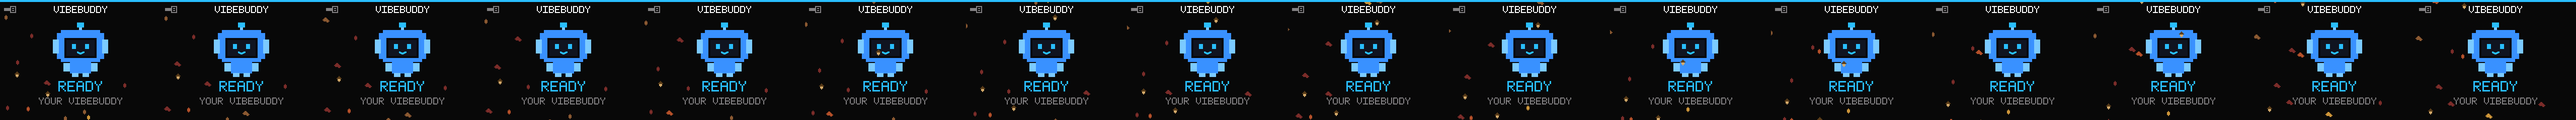
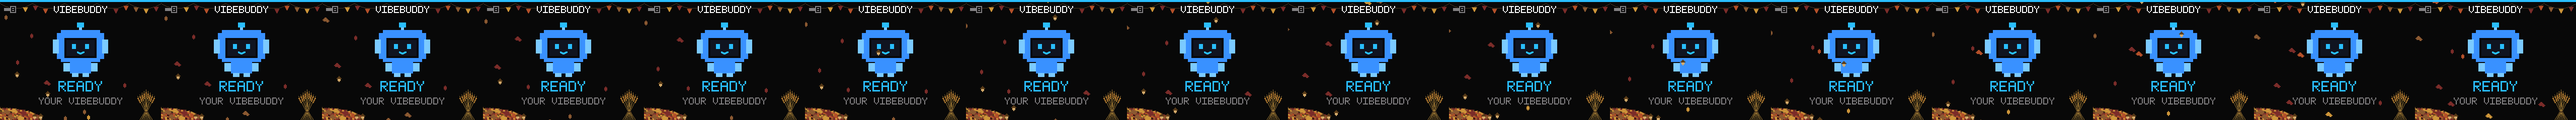
Thanksgiving decoration: bunting, a leaf pile and a sheaf of wheat
With only falling leaves and acorns, Thanksgiving looked thin beside
Christmas. It now has the same build:

- Bunting hangs in swags across the top on a twine, pennants in the
  leaves' four colours.
- A pile of leaves with two acorns sits in the bottom left corner.
- A sheaf of wheat, tied with a band, stands in the bottom right. It is
  golden brown so it shows on the needs input yellow.

The corner parts follow the pine's rule: drawn a pixel at a time on the
corner's ground only, so text and cards sit on top with a pixel of
ground around them. The leaves and acorns fall behind all of it.

diff --git a/firmware-rs/core/src/decoration.rs b/firmware-rs/core/src/decoration.rs
@@ -1,15 +1,16 @@
 //! Decorations (ADR-0022): a seasonal layer drawn over whichever box screens the box uses, after the screen and
 //! before the dimming, the menu and the tap outline. Only things that don't depend on the layout, so one drawing
-//! works on every set of screens. Each one is named for its holiday: Thanksgiving is falling leaves with an acorn
-//! here and there, and Christmas is strings of lights hanging in swags across the top, pine boughs with baubles in
-//! the bottom left corner, a small tree in the bottom right, and snow falling.
+//! works on every set of screens. Each one is named for its holiday: Thanksgiving is bunting across the top, a pile
+//! of leaves in the bottom left corner, a sheaf of wheat in the bottom right, and falling leaves and acorns.
+//! Christmas is strings of lights hanging in swags across the top, pine boughs with baubles in the bottom left
+//! corner, a small tree in the bottom right, and snow falling.
 //!
 //! Every flake, leaf and bulb is a function of time alone, so a frame drawn at any moment is right and the
 //! screens' own animation pace doesn't matter. Nothing is drawn in the top rows, where both sets show the state
 //! colour, and nothing uses a state colour. A flake, leaf, acorn or bulb that would touch text, an edge or an icon
-//! isn't drawn in that frame, so it seems to pass behind it and the text stays whole, on any layout. The pine is
-//! drawn a pixel at a time on its corner's ground only, so text and cards sit on top of it with a pixel of ground
-//! around them.
+//! isn't drawn in that frame, so it seems to pass behind it and the text stays whole, on any layout. The parts in
+//! the corners are drawn a pixel at a time on their corner's ground only, so text and cards sit on top of them with
+//! a pixel of ground around them.
 
 use crate::canvas::{Canvas, HEIGHT, WIDTH, half_bright};
 
@@ -87,6 +88,28 @@ const ACORN_CAP: [u8; 3] = [0b00100, 0b01110, 0b11111];
 const ACORN_NUT: [u8; 3] = [0b01110, 0b01110, 0b00100];
 const ACORN_CAP_COLOR: u16 = 0x59e3;
 const ACORN_NUT_COLOR: u16 = 0xd54d;
+/// Thanksgiving's parts that stay put. Bunting hangs in swags across the top like the Christmas lights: a pennant
+/// every `PENNANT_SPACING` pixels on a twine, `PENNANT_WIDTH` wide and `PENNANT_HEIGHT` long, in the leaves' colours.
+const TWINE: u16 = 0x8b68;
+const PENNANT_SPACING: i32 = 20;
+const PENNANT_WIDTH: i32 = 11;
+const PENNANT_HEIGHT: i32 = 10;
+const MAX_PENNANTS: usize = 16;
+/// A pile of fallen leaves in the bottom left corner, `PILE_WIDTH` wide and up to `PILE_HEIGHT` high, with a few
+/// whole leaves on it and two acorns at its foot.
+const PILE_WIDTH: i32 = 84;
+const PILE_HEIGHT: i32 = 26;
+const PILE_LEAVES: [(i32, i32); 6] = [(6, 20), (22, 22), (40, 18), (56, 12), (14, 10), (34, 8)];
+const PILE_ACORNS: [i32; 2] = [64, 76];
+/// A sheaf of wheat in the bottom right corner: `STALKS` stalks tied together, fanning out above the band into ears
+/// of grain and splaying a little below it. Golden browns and ochre, dark enough to show on the needs input yellow.
+const STALKS: i32 = 9;
+const SHEAF_INSET: i32 = 30;
+const SHEAF_HEIGHT: i32 = 56;
+const SHEAF_BAND: i32 = 16;
+const EAR: i32 = 12;
+const STALK: u16 = 0x9386;
+const GRAIN: u16 = 0xab45;
 
 /// Bulbs: mostly warm white and gold, every fourth pink or violet. No red, green, yellow, orange or blue, which
 /// the screens use for state.
@@ -191,23 +214,30 @@ fn bulbs() -> impl Iterator<Item = (i32, i32)> {
 }
 
 /// The light string's wire, a pixel wide, left out where it would touch anything but plain ground.
-fn wire(canvas: &mut Canvas) {
+fn wire(canvas: &mut Canvas, color: u16) {
     for x in 0..WIDTH {
         let y = swag_y(x);
         if plain(canvas, x, y, 1, 1) {
-            dot(canvas, x, y, 1, 1, NEEDLES[2]);
+            dot(canvas, x, y, 1, 1, color);
         }
     }
 }
 
-fn pine(color: u16) -> bool {
-    color == TWIG || color == TRUNK || NEEDLES.contains(&color)
+/// The colours of the parts that stay put in the corners: the pine and the tree, the leaf pile and the wheat.
+fn ours(color: u16) -> bool {
+    color == TWIG
+        || color == TRUNK
+        || color == STALK
+        || color == GRAIN
+        || color == ACORN_NUT_COLOR
+        || NEEDLES.contains(&color)
+        || LEAF_COLORS.iter().any(|leaf| *leaf == color || half_bright(*leaf) == color)
 }
 
-/// One pixel of pine, drawn only where it and the pixels around it are the corner's `ground` or pine already. So the
-/// pine grows behind text, cards and icons, and keeps a pixel of ground around them: text on the tree stays whole
-/// and readable, and the pine never fills the inside of a card or a key cap.
-fn needle_dot(canvas: &mut Canvas, ground: u16, x: i32, y: i32, color: u16) {
+/// One pixel of a part in a corner, drawn only where it and the pixels around it are the corner's `ground` or such a
+/// part already. So the part grows behind text, cards and icons, and keeps a pixel of ground around them: text on
+/// the tree stays whole and readable, and a part never fills the inside of a card or a key cap.
+fn part_dot(canvas: &mut Canvas, ground: u16, x: i32, y: i32, color: u16) {
     if !(0..WIDTH).contains(&x) || !(TOP..HEIGHT).contains(&y) {
         return;
     }
@@ -216,12 +246,12 @@ fn needle_dot(canvas: &mut Canvas, ground: u16, x: i32, y: i32, color: u16) {
     }
 }
 
-/// Whether the box from (x, y), `width` by `height`, and a pixel around it, is all `ground` or pine.
+/// Whether the box from (x, y), `width` by `height`, and a pixel around it, is all `ground` or a corner's part.
 fn on_ground(canvas: &Canvas, ground: u16, x: i32, y: i32, width: i32, height: i32) -> bool {
     for row in (y - 1).max(TOP)..(y + height + 1).min(HEIGHT) {
         for column in (x - 1).max(0)..(x + width + 1).min(WIDTH) {
             let color = canvas.pixel((row * WIDTH + column) as usize);
-            if color != ground && !pine(color) {
+            if color != ground && !ours(color) {
                 return false;
             }
         }
@@ -229,11 +259,11 @@ fn on_ground(canvas: &Canvas, ground: u16, x: i32, y: i32, width: i32, height: i
     true
 }
 
-/// A straight line of pine from (x0, y0) to (x1, y1).
-fn needle_line(canvas: &mut Canvas, ground: u16, (x0, y0): (i32, i32), (x1, y1): (i32, i32), color: u16) {
+/// A straight line of a corner's part from (x0, y0) to (x1, y1).
+fn part_line(canvas: &mut Canvas, ground: u16, (x0, y0): (i32, i32), (x1, y1): (i32, i32), color: u16) {
     let steps = (x1 - x0).abs().max((y1 - y0).abs()).max(1);
     for step in 0..=steps {
-        needle_dot(canvas, ground, x0 + (x1 - x0) * step / steps, y0 + (y1 - y0) * step / steps, color);
+        part_dot(canvas, ground, x0 + (x1 - x0) * step / steps, y0 + (y1 - y0) * step / steps, color);
     }
 }
 
@@ -256,7 +286,7 @@ fn corner(canvas: &mut Canvas, ground: u16) {
         let length = root(dx * dx + dy * dy);
         // Along the bough and across it, in 1/256ths of a pixel.
         let (ux, uy) = (dx * 256 / length, dy * 256 / length);
-        needle_line(canvas, ground, place(origin.0, origin.1), place(end_x, end_y), TWIG);
+        part_line(canvas, ground, place(origin.0, origin.1), place(end_x, end_y), TWIG);
         for along in 0..length {
             let (x, y) = (origin.0 + dx * along / length, origin.1 + dy * along / length);
             let reach = 3 + (NEEDLE_LENGTH - 3) * (length - along) / length;
@@ -270,7 +300,7 @@ fn corner(canvas: &mut Canvas, ground: u16) {
                 let tip_y = y + (uy * 6 / 10 + side * ux) * reach / 256;
                 // Lighter on the upper side, where the light falls.
                 let shade = if side * ux > 0 { 2 + (bits >> 3) as usize % 2 } else { (bits >> 3) as usize % 2 };
-                needle_line(canvas, ground, place(x, y), place(tip_x, tip_y), NEEDLES[shade]);
+                part_line(canvas, ground, place(x, y), place(tip_x, tip_y), NEEDLES[shade]);
             }
         }
     }
@@ -324,11 +354,11 @@ fn tree(canvas: &mut Canvas, ground: u16, t_ms: u64) {
                 0
             };
             let shade = (light + (bits >> 3) as usize % 2).min(NEEDLES.len() - 1);
-            needle_dot(canvas, ground, centre + offset, top + row, NEEDLES[shade]);
+            part_dot(canvas, ground, centre + offset, top + row, NEEDLES[shade]);
         }
     }
     for row in 0..TREE_TRUNK {
-        needle_line(canvas, ground, (centre - 2, top + TREE_FOLIAGE + row), (centre + 2, top + TREE_FOLIAGE + row), TRUNK);
+        part_line(canvas, ground, (centre - 2, top + TREE_FOLIAGE + row), (centre + 2, top + TREE_FOLIAGE + row), TRUNK);
     }
     // The star, on the top: a plus with a fuller middle and a gold heart. It and the bulbs are left out where they
     // would touch anything but the ground and the tree.
@@ -349,6 +379,102 @@ fn tree(canvas: &mut Canvas, ground: u16, t_ms: u64) {
     }
 }
 
+/// The pile of leaves in the bottom left corner, on its `ground`: a mound of leaf-sized patches of the leaves'
+/// colours, lighter towards the top, with whole leaves lying on it and acorns at its foot.
+fn pile(canvas: &mut Canvas, ground: u16) {
+    for x in 0..PILE_WIDTH {
+        // A quarter ellipse from the corner, ragged along the top.
+        let across = PILE_WIDTH * PILE_WIDTH - x * x;
+        let height = PILE_HEIGHT * root(across) / PILE_WIDTH - (mix(x as u32, 0x9113) % 3) as i32;
+        for up in 0..height.max(0) {
+            let patch = mix(((x / 4) * 64 + (up + x / 3) / 3) as u32, 0x1eaf);
+            let color = LEAF_COLORS[(patch >> 4) as usize % LEAF_COLORS.len()];
+            // Shade the inside of the pile, so the patches read as leaves on leaves.
+            let color = if up < height - 4 && patch & 3 == 0 { half_bright(color) } else { color };
+            part_dot(canvas, ground, x, HEIGHT - 1 - up, color);
+        }
+    }
+    for (index, (x, y)) in PILE_LEAVES.into_iter().enumerate() {
+        let color = LEAF_COLORS[(index + 1) % LEAF_COLORS.len()];
+        for (row, line) in LEAF_FLAT.iter().enumerate() {
+            for column in 0..LEAF_WIDTH {
+                if line & (1 << (LEAF_WIDTH - 1 - column)) != 0 {
+                    for (dx, dy) in [(0, 0), (1, 0), (0, 1), (1, 1)] {
+                        part_dot(canvas, ground, x + column * 2 + dx, HEIGHT - 1 - y + row as i32 * 2 + dy, color);
+                    }
+                }
+            }
+        }
+    }
+    let acorn_height = (ACORN_CAP.len() + ACORN_NUT.len()) as i32 * LEAF_SCALE;
+    for x in PILE_ACORNS {
+        let top = HEIGHT - 1 - acorn_height;
+        if on_ground(canvas, ground, x, top, ACORN_WIDTH * LEAF_SCALE, acorn_height) {
+            shape(canvas, x, top, ACORN_WIDTH, &ACORN_CAP, ACORN_CAP_COLOR);
+            shape(canvas, x, top + ACORN_CAP.len() as i32 * LEAF_SCALE, ACORN_WIDTH, &ACORN_NUT, ACORN_NUT_COLOR);
+        }
+    }
+}
+
+/// The sheaf of wheat in the bottom right corner, on its `ground`.
+fn sheaf(canvas: &mut Canvas, ground: u16) {
+    let centre = WIDTH - SHEAF_INSET;
+    let band = HEIGHT - 1 - SHEAF_BAND;
+    let top = HEIGHT - 1 - SHEAF_HEIGHT;
+    for stalk in -(STALKS / 2)..=STALKS / 2 {
+        let foot = (centre + stalk * 3, HEIGHT - 1);
+        let waist = (centre + stalk / 2, band);
+        let head = (centre + stalk * 4, top + stalk.abs() * 3);
+        part_line(canvas, ground, foot, waist, STALK);
+        part_line(canvas, ground, waist, head, STALK);
+        // The ear: grains in pairs either side of the top of the stalk, and a few awns past its tip.
+        let (dx, dy) = (head.0 - waist.0, head.1 - waist.1);
+        let length = root(dx * dx + dy * dy).max(1);
+        for along in (0..EAR).step_by(2) {
+            let (x, y) = (head.0 - dx * along / length, head.1 - dy * along / length);
+            let color = if along % 4 == 0 { GRAIN } else { LEAF_COLORS[2] };
+            part_line(canvas, ground, (x - 1, y + 1), (x + 1, y + 1), color);
+            part_dot(canvas, ground, x, y, color);
+        }
+        part_line(canvas, ground, head, (head.0 + dx * 4 / length, head.1 + dy * 4 / length), STALK);
+    }
+    // The band that ties them.
+    part_line(canvas, ground, (centre - 4, band), (centre + 4, band), TWIG);
+    part_line(canvas, ground, (centre - 4, band + 1), (centre + 4, band + 1), TWIG);
+}
+
+/// The middles of the pennants along the twine.
+fn pennants() -> impl Iterator<Item = (i32, i32)> {
+    (0..)
+        .map(|step| PENNANT_SPACING / 2 + step * PENNANT_SPACING)
+        .take_while(|x| *x < WIDTH - PENNANT_WIDTH / 2)
+        .map(|x| (x, swag_y(x) + 1))
+}
+
+/// Thanksgiving's parts that stay put: the bunting across the top, the leaf pile and the sheaf of wheat.
+fn harvest(canvas: &mut Canvas) {
+    let mut room = [false; MAX_PENNANTS];
+    for (index, (x, y)) in pennants().enumerate().take(MAX_PENNANTS) {
+        room[index] = plain(canvas, x - PENNANT_WIDTH / 2, y, PENNANT_WIDTH, PENNANT_HEIGHT);
+    }
+    let left_ground = canvas.pixel(((HEIGHT - 2) * WIDTH + 1) as usize);
+    let right_ground = canvas.pixel(((HEIGHT - 2) * WIDTH + WIDTH - 2) as usize);
+    pile(canvas, left_ground);
+    sheaf(canvas, right_ground);
+    wire(canvas, TWINE);
+    for (index, (x, y)) in pennants().enumerate().take(MAX_PENNANTS) {
+        if !room[index] {
+            continue;
+        }
+        let color = LEAF_COLORS[index % LEAF_COLORS.len()];
+        // A triangle pointing down, with its top row a shade darker where it folds over the twine.
+        for row in 0..PENNANT_HEIGHT {
+            let half = (PENNANT_WIDTH / 2) * (PENNANT_HEIGHT - row) / PENNANT_HEIGHT;
+            dot(canvas, x - half, y + row, 2 * half + 1, 1, if row == 0 { half_bright(color) } else { color });
+        }
+    }
+}
+
 fn lights(canvas: &mut Canvas, t_ms: u64) {
     // Which bulbs have room, judged on the screen before anything goes on.
     let mut room = [false; MAX_BULBS];
@@ -360,7 +486,7 @@ fn lights(canvas: &mut Canvas, t_ms: u64) {
     let right_ground = canvas.pixel(((HEIGHT - 2) * WIDTH + WIDTH - 2) as usize);
     corner(canvas, left_ground);
     tree(canvas, right_ground, t_ms);
-    wire(canvas);
+    wire(canvas, NEEDLES[2]);
     for (index, (x, y)) in bulbs().enumerate().take(MAX_BULBS) {
         if !room[index] {
             continue;
@@ -449,7 +575,11 @@ pub fn draw(canvas: &mut Canvas, decoration: Decoration, t_ms: u32) {
     let t_ms = t_ms as u64;
     match decoration {
         Decoration::Off => {}
-        Decoration::Thanksgiving => leaves(canvas, t_ms),
+        // The parts that stay put first, so the leaves fall behind them.
+        Decoration::Thanksgiving => {
+            harvest(canvas);
+            leaves(canvas, t_ms);
+        }
         // The lights and boughs first, so the snow falls behind them: a flake only lands on plain ground.
         Decoration::Christmas => {
             lights(canvas, t_ms);
@@ -504,7 +634,7 @@ mod tests {
     }
 
     #[test]
-    fn christmas_has_lights_boughs_and_snow_and_thanksgiving_has_acorns_among_the_leaves() {
+    fn christmas_has_lights_boughs_and_snow_and_thanksgiving_has_bunting_wheat_and_acorns() {
         // Whether `color` is anywhere at least `inside` pixels in from the edges, under the state colour's rows.
         let has = |frame: &[u8], color: u16, inside: i32| {
             (TOP + inside..HEIGHT - inside).any(|y| {
@@ -519,7 +649,9 @@ mod tests {
         assert!(has(&christmas, BULB_COLORS[0], 0) || has(&christmas, BULB_COLORS[1], 0), "and the lights");
         assert!(has(&christmas, SNOW, 0) || has(&christmas, SNOW_SHADE, 0), "and the snow");
         let thanksgiving = drawn(Decoration::Thanksgiving, 61_000);
-        assert!(has(&thanksgiving, ACORN_CAP_COLOR, 0), "an acorn falls among the leaves");
+        assert!(has(&thanksgiving, ACORN_CAP_COLOR, 0), "there are acorns");
+        assert!(has(&thanksgiving, TWINE, 0), "and the bunting's twine");
+        assert!(has(&thanksgiving, STALK, 0), "and the wheat");
     }
 
     #[test]

diff --git a/docs/adr/0022-decorations-are-one-overlay-for-every-set-of-box-screens.md b/docs/adr/0022-decorations-are-one-overlay-for-every-set-of-box-screens.md
@@ -8,9 +8,9 @@ On 2026-11-04 Michael asked for holiday themes the App writes to the box: backgr
 
 So a decoration is a third thing beside the Character and the box screens, and it uses only what doesn't depend on the layout:
 
-- **Kinds.** Things that fall or drift over the whole screen (snow, leaves) things that hang along its top edge (strings of lights), and things that grow from its bottom corners (pine boughs, a small tree). Nothing that sits at a place a layout gives meaning to: no hats on the buddy, no new backgrounds, no recoloured cards.
+- **Kinds.** Things that fall or drift over the whole screen (snow, leaves) things that hang along its top edge (strings of lights, bunting), and things that sit in its bottom corners (pine boughs, a small tree, a pile of leaves, a sheaf of wheat). Nothing that sits at a place a layout gives meaning to: no hats on the buddy, no new backgrounds, no recoloured cards.
 - **One drawing for every set of box screens.** The box draws the decoration over the finished 320×240 frame, whichever set drew it, before the night dimming, the menu and the tap outline (`decoration.rs`). Both sets render a full frame and flush it whole (`canvas.rs`, `lcd.rs`), so there is one place to add it. A new set of box screens gets every decoration for free.
-- **It never hides what the screen means.** It leaves the top 4 rows alone, where both sets draw the state colour (4 rows on the robot screens, 3 on korekore). It doesn't use the state colours (ready blue, working orange, needs input yellow, done green, failed red) as a main colour, since korekore fills the whole screen with some of them: Christmas lights are warm white and gold with every fourth bulb pink or violet, not red and green bulbs, and the pine is dark pine greens far from the done green. A flake, leaf, acorn or bulb that would touch anything but plain ground (text, an edge, an icon) isn't drawn in that frame, so it seems to pass behind it and text stays whole. The pine is drawn a pixel at a time, only on its corner's ground colour and a pixel clear of anything else, so text, cards and key caps sit on top of it with a pixel of ground around them, and it never fills the inside of a card. Both look at the pixels, not at either layout. While the box needs input, it stops moving, so the only motion on the screen is the buddy asking.
+- **It never hides what the screen means.** It leaves the top 4 rows alone, where both sets draw the state colour (4 rows on the robot screens, 3 on korekore). It doesn't use the state colours (ready blue, working orange, needs input yellow, done green, failed red) as a main colour, since korekore fills the whole screen with some of them: Christmas lights are warm white and gold with every fourth bulb pink or violet, not red and green bulbs, and the pine is dark pine greens far from the done green. The wheat is golden brown and ochre, dark enough to show on the needs input yellow. A flake, leaf, acorn or bulb that would touch anything but plain ground (text, an edge, an icon) isn't drawn in that frame, so it seems to pass behind it and text stays whole. The parts in the corners are drawn a pixel at a time, only on their corner's ground colour and a pixel clear of anything else, so text, cards and key caps sit on top of them with a pixel of ground around them, and they never fill the inside of a card. Both look at the pixels, not at either layout. While the box needs input, it stops moving, so the only motion on the screen is the buddy asking.
 - **In the firmware, picked by a command.** Like the box screens, each decoration is compiled in and switched over the link, and the box keeps the choice across restarts. Off is the default. Turning one on doesn't write the Character pack or flash anything.
 - **Named for a holiday, but not tied to a Character or a date.** Pip with no Christmas decoration and the robot with one are both fine. The App doesn't turn a decoration on by the calendar; the user picks it, as with a Character.
 
@@ -26,5 +26,5 @@ So a decoration is a third thing beside the Character and the box screens, and i
 - The firmware gets a decoration step after each set's frame, a `device.decoration` command and a `DECORATION` line, the way `device.screens` works (docs/protocol.md). The settings record has no free word, so the decoration takes the second byte of the screens word; firmware from before it reads a decorated korekore record as the robot's, which only matters after a rollback. The robot and korekore pixels stay the same with the decoration off. `cargo run -p vibebuddy-firmware-core --example decoration_preview -- <dir>` draws each decoration on both sets.
 - A moving decoration redraws the frame every 150 ms between the screens' own frames, without speeding up the buddy's animation. The rate is checked on the box. It holds still while the menu is up, while the box needs input, and while the screen is dimmed for the night.
 - The Mac app and the Linux app both get a decoration strip on the Character page, right under the volume so a long list of Characters doesn't push it out of sight: one preview, playing frames the firmware itself drew (`tools/decoration-previews.sh` into `decorations/`, so the apps never redraw a decoration of their own), and a button for each decoration. It is off while the box is away or runs firmware that doesn't report a decoration, with zh-Hans strings on both sides. It was first on the Device page, beside the box screens; on 2026-11-05 it moved, since people look for a holiday look where they pick the Character.
-- The first decorations are Thanksgiving (falling autumn leaves with an acorn here and there, for 2026-11-26) and Christmas (strings of lights hanging in swags across the top, pine boughs with baubles in the bottom left corner, a small tree with a star in the bottom right, and falling snow). Both ship in one firmware release and one App release about a week before Thanksgiving, and that App release also carries Tom and Pip.
-- On 2026-11-06, before any of it shipped, the three decorations Leaves, Snow and Lights became these two, one for each holiday: people pick a holiday, not an effect, and lights alone were for December only. The Christmas one first had a pine garland with lights round the edge of the screen. Along the top it sat right against the state colour and read as part of it, and down the sides it broke wherever a screen's content came near the edge. So the lights now hang in swags under the state colour, and the pine is in the bottom corners, where the screens have the most room. The tree is drawn on every screen, with text on top of it, rather than only where it has room: a decoration that comes and goes from one screen to the next looked less like one design. Everything is drawn before the snow, so a flake falls behind it. Thanksgiving got acorns rather than pumpkins: acorns fall, and a pumpkin's orange is too near the working orange. Snow on its own for the rest of the winter is gone for now. Holidays differ by country: Thanksgiving means little outside the US and Canada, so other holidays, such as Lunar New Year, come as decorations of their own. The settings record keeps codes 1 and 2 for the two; 3, which only test boxes stored, reads as off.
+- The first decorations are Thanksgiving (bunting in the leaves' colours across the top, a pile of leaves with two acorns in the bottom left corner, a sheaf of wheat in the bottom right, and falling leaves and acorns, for 2026-11-26) and Christmas (strings of lights hanging in swags across the top, pine boughs with baubles in the bottom left corner, a small tree with a star in the bottom right, and falling snow). Both ship in one firmware release and one App release about a week before Thanksgiving, and that App release also carries Tom and Pip.
+- On 2026-11-06, before any of it shipped, the three decorations Leaves, Snow and Lights became these two, one for each holiday: people pick a holiday, not an effect, and lights alone were for December only. The Christmas one first had a pine garland with lights round the edge of the screen. Along the top it sat right against the state colour and read as part of it, and down the sides it broke wherever a screen's content came near the edge. So the lights now hang in swags under the state colour, and the pine is in the bottom corners, where the screens have the most room. The tree is drawn on every screen, with text on top of it, rather than only where it has room: a decoration that comes and goes from one screen to the next looked less like one design. Everything is drawn before the snow, so a flake falls behind it. Thanksgiving, with only falling leaves and acorns, then looked thin beside Christmas, so it got the same build: bunting hanging across the top, and a leaf pile and a sheaf of wheat in the bottom corners. Thanksgiving got acorns rather than pumpkins: acorns fall, and a pumpkin's orange is too near the working orange. Snow on its own for the rest of the winter is gone for now. Holidays differ by country: Thanksgiving means little outside the US and Canada, so other holidays, such as Lunar New Year, come as decorations of their own. The settings record keeps codes 1 and 2 for the two; 3, which only test boxes stored, reads as off.

diff --git a/CONTEXT.md b/CONTEXT.md
@@ -105,7 +105,7 @@ The set of screens the box draws everything with: the robot screens (the default
 _Avoid_: theme, skin, style on its own (界面风格 is fine in talk, but the UI says box screens)
 
 **Decoration (装饰)**:
-A seasonal layer the box draws over whichever box screens it uses, one for each holiday: falling leaves and acorns for Thanksgiving, strings of lights hanging across the top, pine boughs in the bottom left corner, a small tree in the bottom right and falling snow for Christmas. It uses only things that don't depend on the layout, so one decoration is designed once and works on every set of screens. It is separate from the Character: a decoration doesn't come with one, and a Character doesn't bring one. It never hides or changes what the screen means (ADR-0022).
+A seasonal layer the box draws over whichever box screens it uses, one for each holiday: bunting across the top, a pile of leaves and a sheaf of wheat in the bottom corners and falling leaves and acorns for Thanksgiving, strings of lights hanging across the top, pine boughs in the bottom left corner, a small tree in the bottom right and falling snow for Christmas. It uses only things that don't depend on the layout, so one decoration is designed once and works on every set of screens. It is separate from the Character: a decoration doesn't come with one, and a Character doesn't bring one. It never hides or changes what the screen means (ADR-0022).
 _Avoid_: theme, holiday skin, background (it is drawn over the screens, not under them)
 
 **Character pack (角色包)**:
